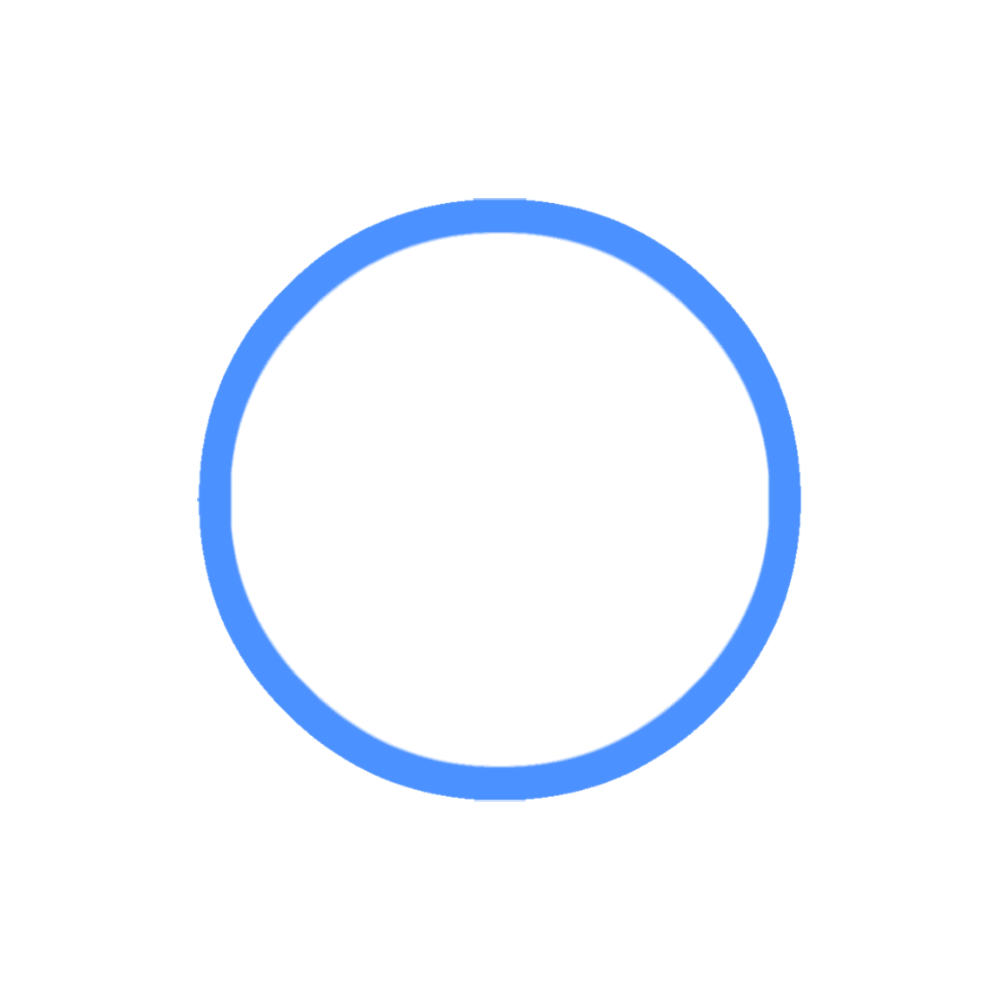
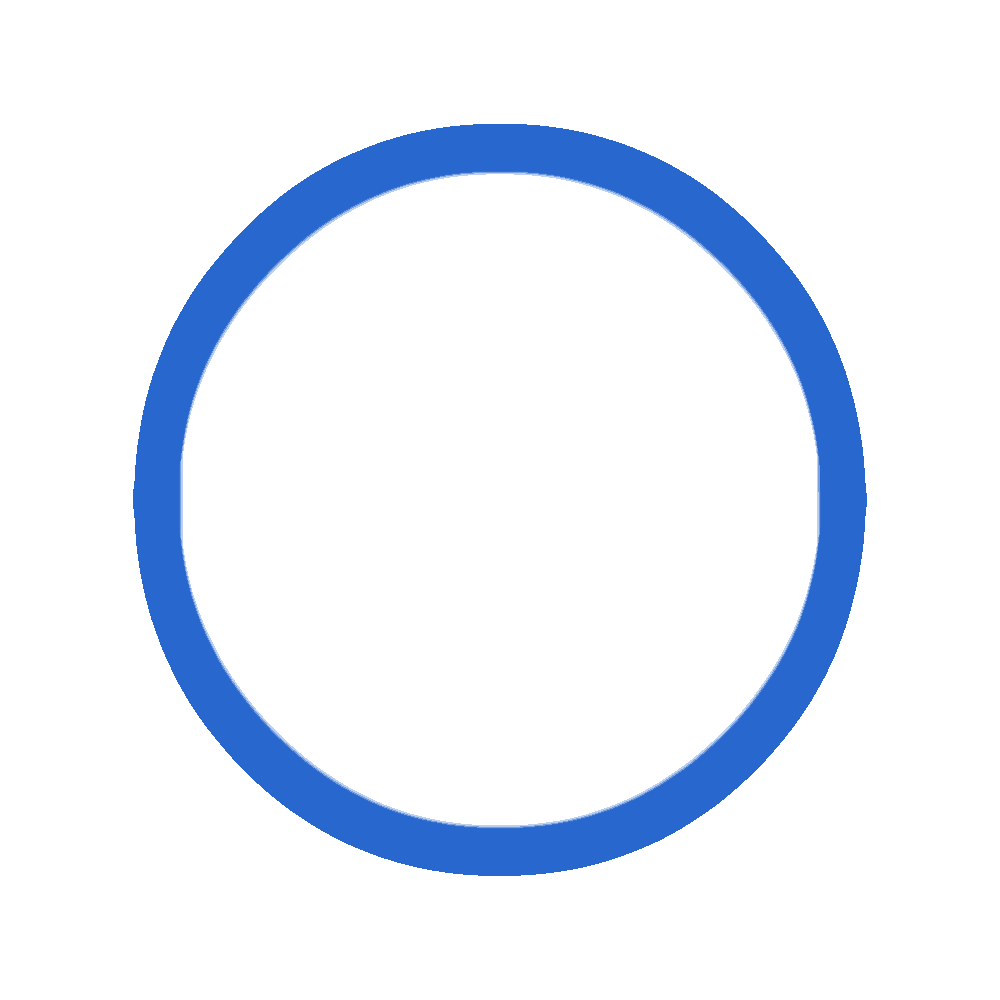
make the landing page and change the theme

Changed region(s): [[0.124, 0.124, 0.868, 0.899]]

diff --git a/src/routes/signup/+page.svelte b/src/routes/signup/+page.svelte
@@ -3,7 +3,7 @@
 </svelte:head>
 
 <main class="flex items-center justify-center h-dvh">
-    <section class="bg-slate rounded-xl w-4/5 h-fit p-12">
+    <section class="bg-black-800 rounded-xl w-4/5 p-12">
         <h1 class="text-3xl font-bold text-center">Create an account</h1>
 
         <form class="mt-8 space-y-4">
@@ -15,7 +15,7 @@
                     name="display-name"
                     id="display-name"
                     type="text"
-                    class="rounded-lg w-full h-10 px-2 border-none outline-none bg-deepslate"
+                    class="rounded-lg w-full h-10 px-2 border-none outline-none bg-black-700"
                 />
             </div>
 
@@ -27,7 +27,7 @@
                     name="username"
                     id="username"
                     type="text"
-                    class="rounded-lg w-full h-10 px-2 border-none outline-none bg-deepslate"
+                    class="rounded-lg w-full h-10 px-2 border-none outline-none bg-black-700"
                 />
             </div>
 
@@ -39,7 +39,7 @@
                     name="email"
                     id="email"
                     type="email"
-                    class="rounded-lg w-full h-10 px-2 border-none outline-none bg-deepslate"
+                    class="rounded-lg w-full h-10 px-2 border-none outline-none bg-black-700"
                 />
             </div>
 
@@ -51,7 +51,7 @@
                     name="password"
                     id="password"
                     type="password"
-                    class="rounded-lg w-full h-10 px-2 border-none outline-none bg-deepslate"
+                    class="rounded-lg w-full h-10 px-2 border-none outline-none bg-black-700"
                 />
             </div>
 

diff --git a/src/routes/+page.svelte b/src/routes/+page.svelte
@@ -1,0 +1,32 @@
+<svelte:head>
+    <title>Roya</title>
+</svelte:head>
+
+<header class="flex items-center justify-center h-dvh">
+    <section class="mb-12 p-12">
+        <img src="/icon.png" alt="Roya Icon" class="mx-auto size-96" />
+
+        <div class="text-center">
+            <h1 class="text-2xl font-extrabold">
+                Imagining a new social media
+            </h1>
+
+            <p class="text-black-200 text-sm font-extralight">
+                Ever wanted to be using a social media for once in your life without big comapanies stealing your data? we are the way to go. roya platforms are completely secure, ad-free and open source social media platforms that includes (chatting, watching videos, and sharing thoughts with others) all with one account shared between all services.
+            </p>
+        </div>
+
+        <div class="grid grid-flow-col justify-stretch p-2 mt-4 space-x-2">
+            <a
+                href="/login"
+                class="flex items-center justify-center h-10 rounded-lg bg-blue"
+                >Login</a
+            >
+            <a
+                href="/signup"
+                class="flex items-center justify-center h-10 rounded-lg bg-blue"
+                >Signup</a
+            >
+        </div>
+    </section>
+</header>

diff --git a/src/routes/login/+page.svelte b/src/routes/login/+page.svelte
@@ -3,7 +3,7 @@
 </svelte:head>
 
 <main class="flex items-center justify-center h-dvh">
-    <section class="bg-slate rounded-xl w-4/5 h-fit p-12">
+    <section class="bg-black-800 rounded-xl w-4/5 p-12">
         <h1 class="text-4xl font-bold text-center">Welcome Back</h1>
 
         <form class="mt-8 space-y-6">
@@ -15,7 +15,7 @@
                     name="email"
                     id="email"
                     type="email"
-                    class="rounded-lg w-full h-10 px-2 border-none outline-none bg-deepslate"
+                    class="rounded-lg w-full h-10 px-2 border-none outline-none bg-black-700"
                 />
             </div>
 
@@ -27,7 +27,7 @@
                     name="password"
                     id="password"
                     type="password"
-                    class="rounded-lg w-full h-10 px-2 border-none outline-none bg-deepslate"
+                    class="rounded-lg w-full h-10 px-2 border-none outline-none bg-black-700"
                 />
             </div>
 

diff --git a/tailwind.config.js b/tailwind.config.js
@@ -4,14 +4,17 @@ export default {
     theme: {
         extend: {},
         colors: {
-            "deepslate": "#001326",
-            "slate": "#001c3A",
-            "gray": "#1e1e1e",
-            "white": "#cdd6f4",
-            "blue": "#0a0ada",
-            "red": "#f38ba8",
-            "green": "#a6e3a1",
-            "orange": "#fab387",
+            "black-900": "#1e1e2e",
+            "black-800": "#313244",
+            "black-700": "#45475a",
+            "black-600": "#585b70",
+            "black-500": "#6c7086",
+            "black-400": "#7f849c",
+            "black-300": "#9399b2",
+            "black-200": "#a6adc8",
+            "black-100": "#bac2de",
+            "white": "#f5f2e7",
+            "blue": "#2666cf",
         },
     },
     plugins: [],

diff --git a/src/app.css b/src/app.css
@@ -3,6 +3,6 @@
 @tailwind utilities;
 
 body {
-    background-color: theme(colors.deepslate);
+    background-color: theme(colors.black-900);
     color: theme(colors.white);
 }
